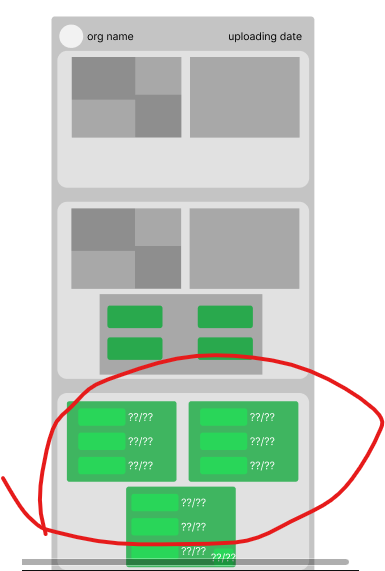
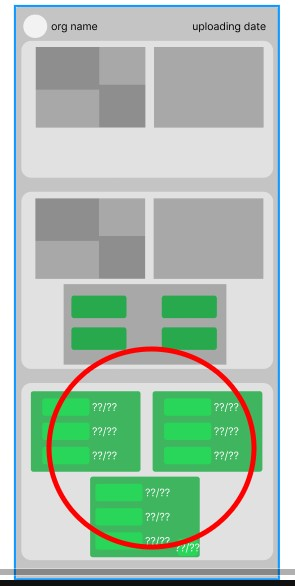
edit

diff --git a/vanilla/home/style.css b/vanilla/home/style.css
@@ -111,12 +111,18 @@
             /* background: rgb(65, 230, 114); */
             padding-left: 20vw;
         }
+        #mainBody{
+            margin-left: 20vw;
+        }
+
 
         /* post stylings */
     .post {
         background: rgb(153, 153, 153);
         width: 80%;
-        margin-top: 3rem;
+        margin-top: 6rem;
+        border-radius: .8rem;
+        overflow: hidden;
     }
     .post *{
         margin: .6rem;
@@ -136,10 +142,15 @@
         height: fit-content;
         margin: .5rem 0;
         /* gap: .5rem; */
-        padding: 1rem;
+        padding: .5rem;
         box-sizing: border-box;
         display: flex;
         flex-direction: column;
+    }
+    .currentState img, .todo img{
+        background: url('../Broken-image-icon-in-Chrome.png');
+        background-size: cover;
+        background-position: center center;
     }
 
     .postHeader {
@@ -307,7 +318,8 @@
         }
 
         span span{
-            background: rgb(43, 158, 43);
+            /* background: rgb(43, 158, 43); */
+            background: #20af49;
         }
     
         
@@ -419,10 +431,13 @@
 
 
 
-.mainTags span{
+ span{
     background: #27f060;
     border-radius: .4rem;
     font-size: 1.3rem;
+    padding: .3rem;
+}
+.mainTags span{
 }
 .info{
     width: 90%;

diff --git a/vanilla/home/index.js b/vanilla/home/index.js
@@ -70,6 +70,11 @@
 
                 <div class="info flex">${ee.cStateInfo}</div>
                 <div class="imgs flex">
+                <img>
+                <img>
+                <img>
+
+
                 ${ee.cStateImgs.map(e=>  `<img style="background:url('../posts/${e}');        
                 background-size: cover;
                 background-position: center center;">`).join('')}
@@ -87,6 +92,9 @@
                     <div class="info flex">${ee.todoInfo}</div>
 
                     <div class="imgs flex">
+                        <img>
+                        <img>
+                        <img>
                     ${
                         ee.todoImgs.map(e=>{
                         console.log(e)

diff --git a/vanilla/home/index.html b/vanilla/home/index.html
@@ -113,9 +113,9 @@
                     الوضع الحالي
                     <div class="info flex">${e.cStateInfo}</div>
                     <div class="imgs flex">
-                        ${e.cStateImgs.map(e=> `<img style="background:url('../posts/${e}');        
-                            background-size: cover;
-                            background-position: center center;">`).join('')}
+                        <img>
+                        <img>
+                        <img>
                     </div>
                 </div>
                 <!-- third section -->
